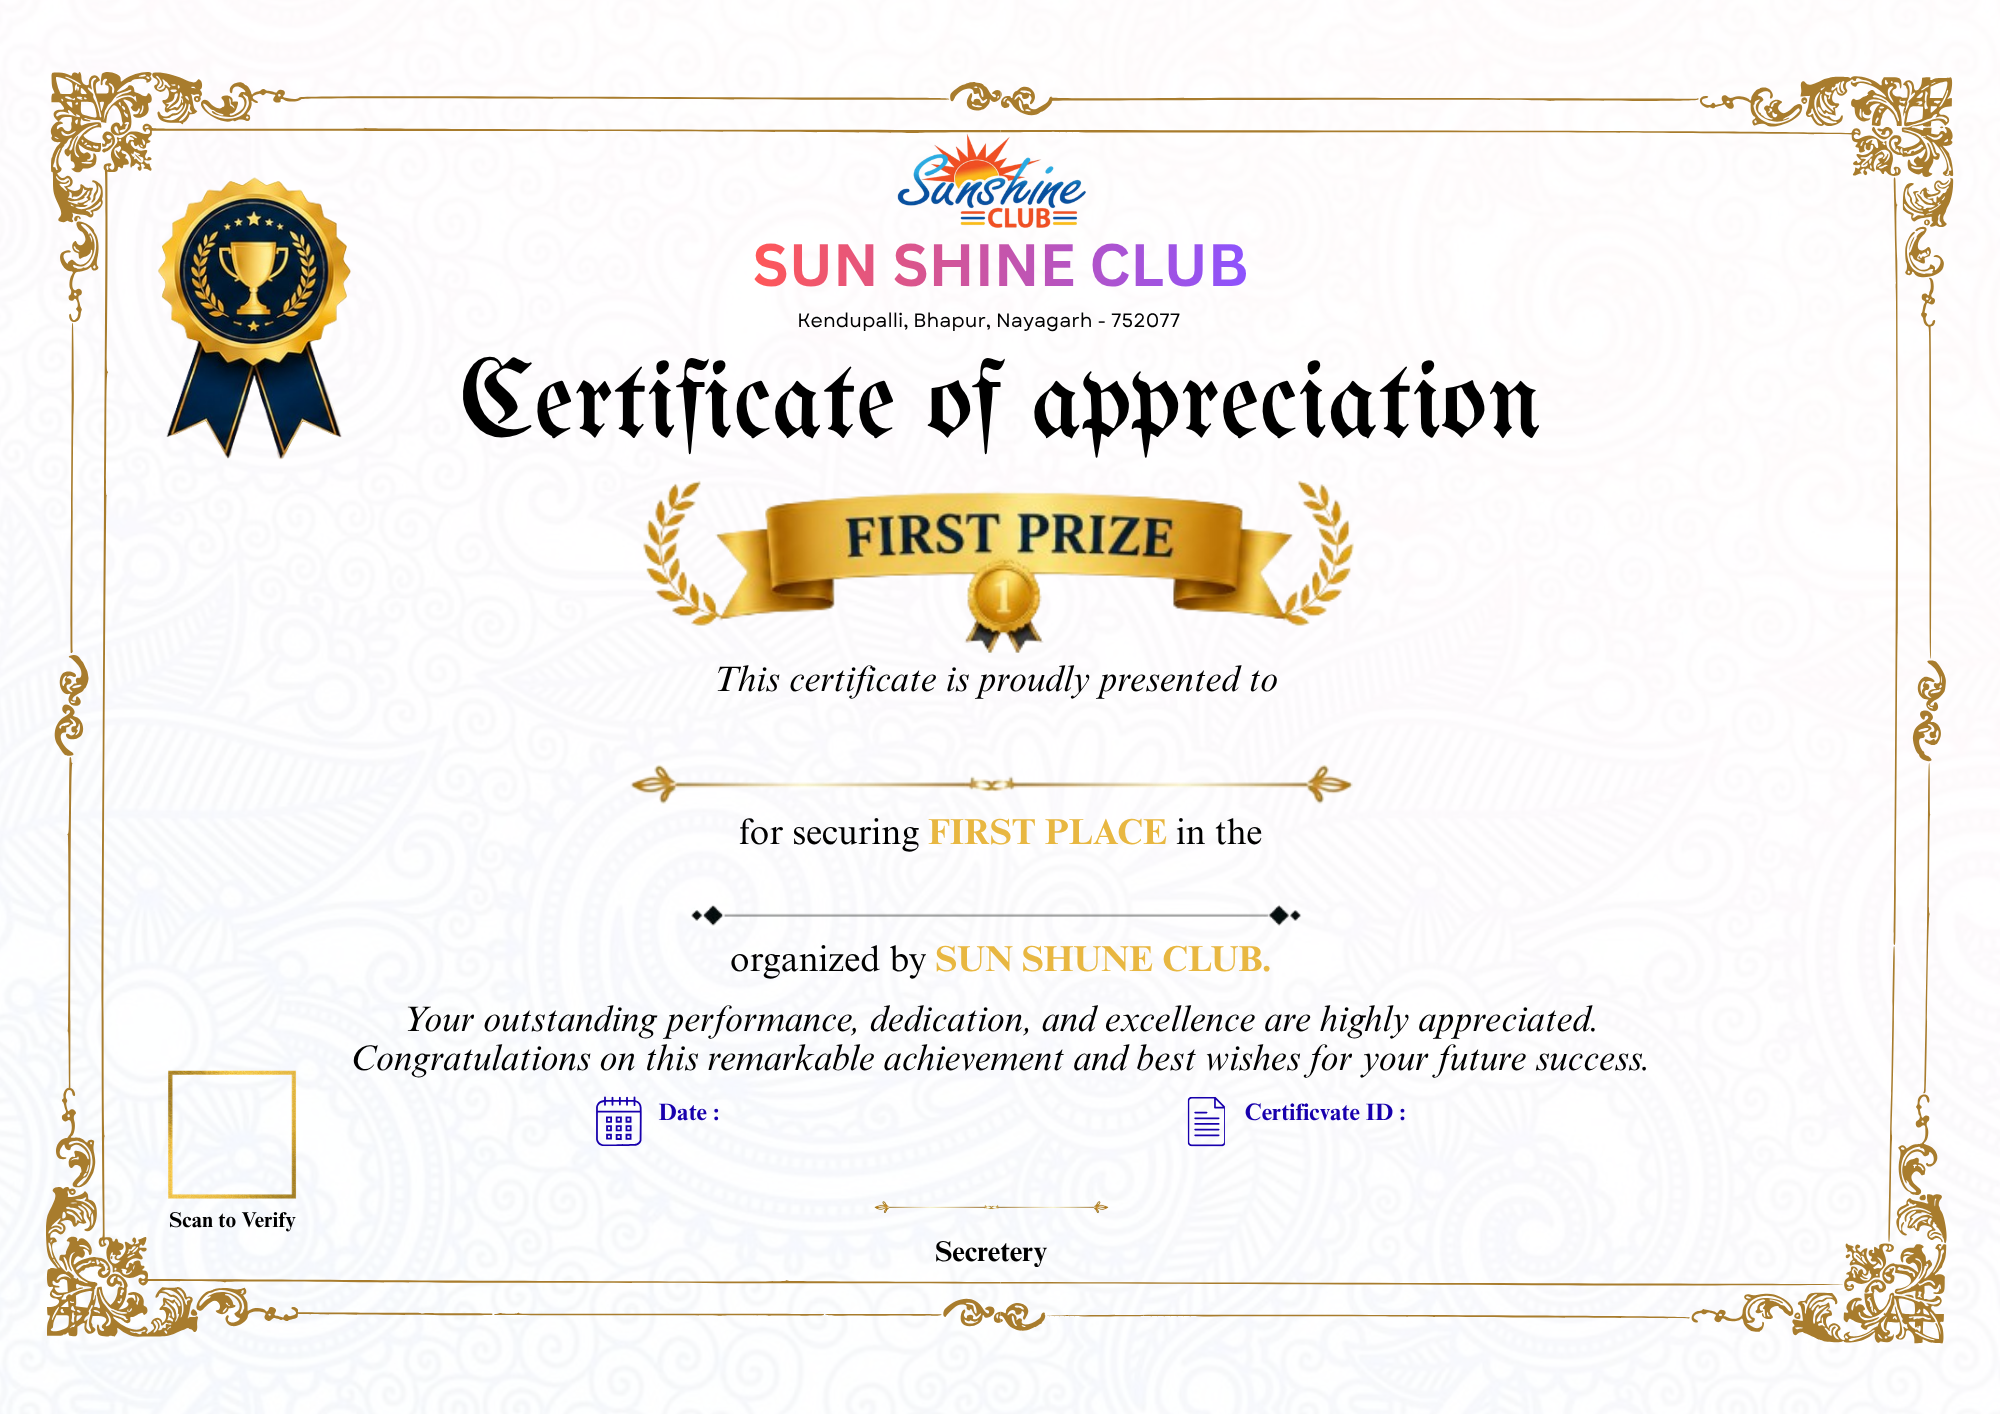
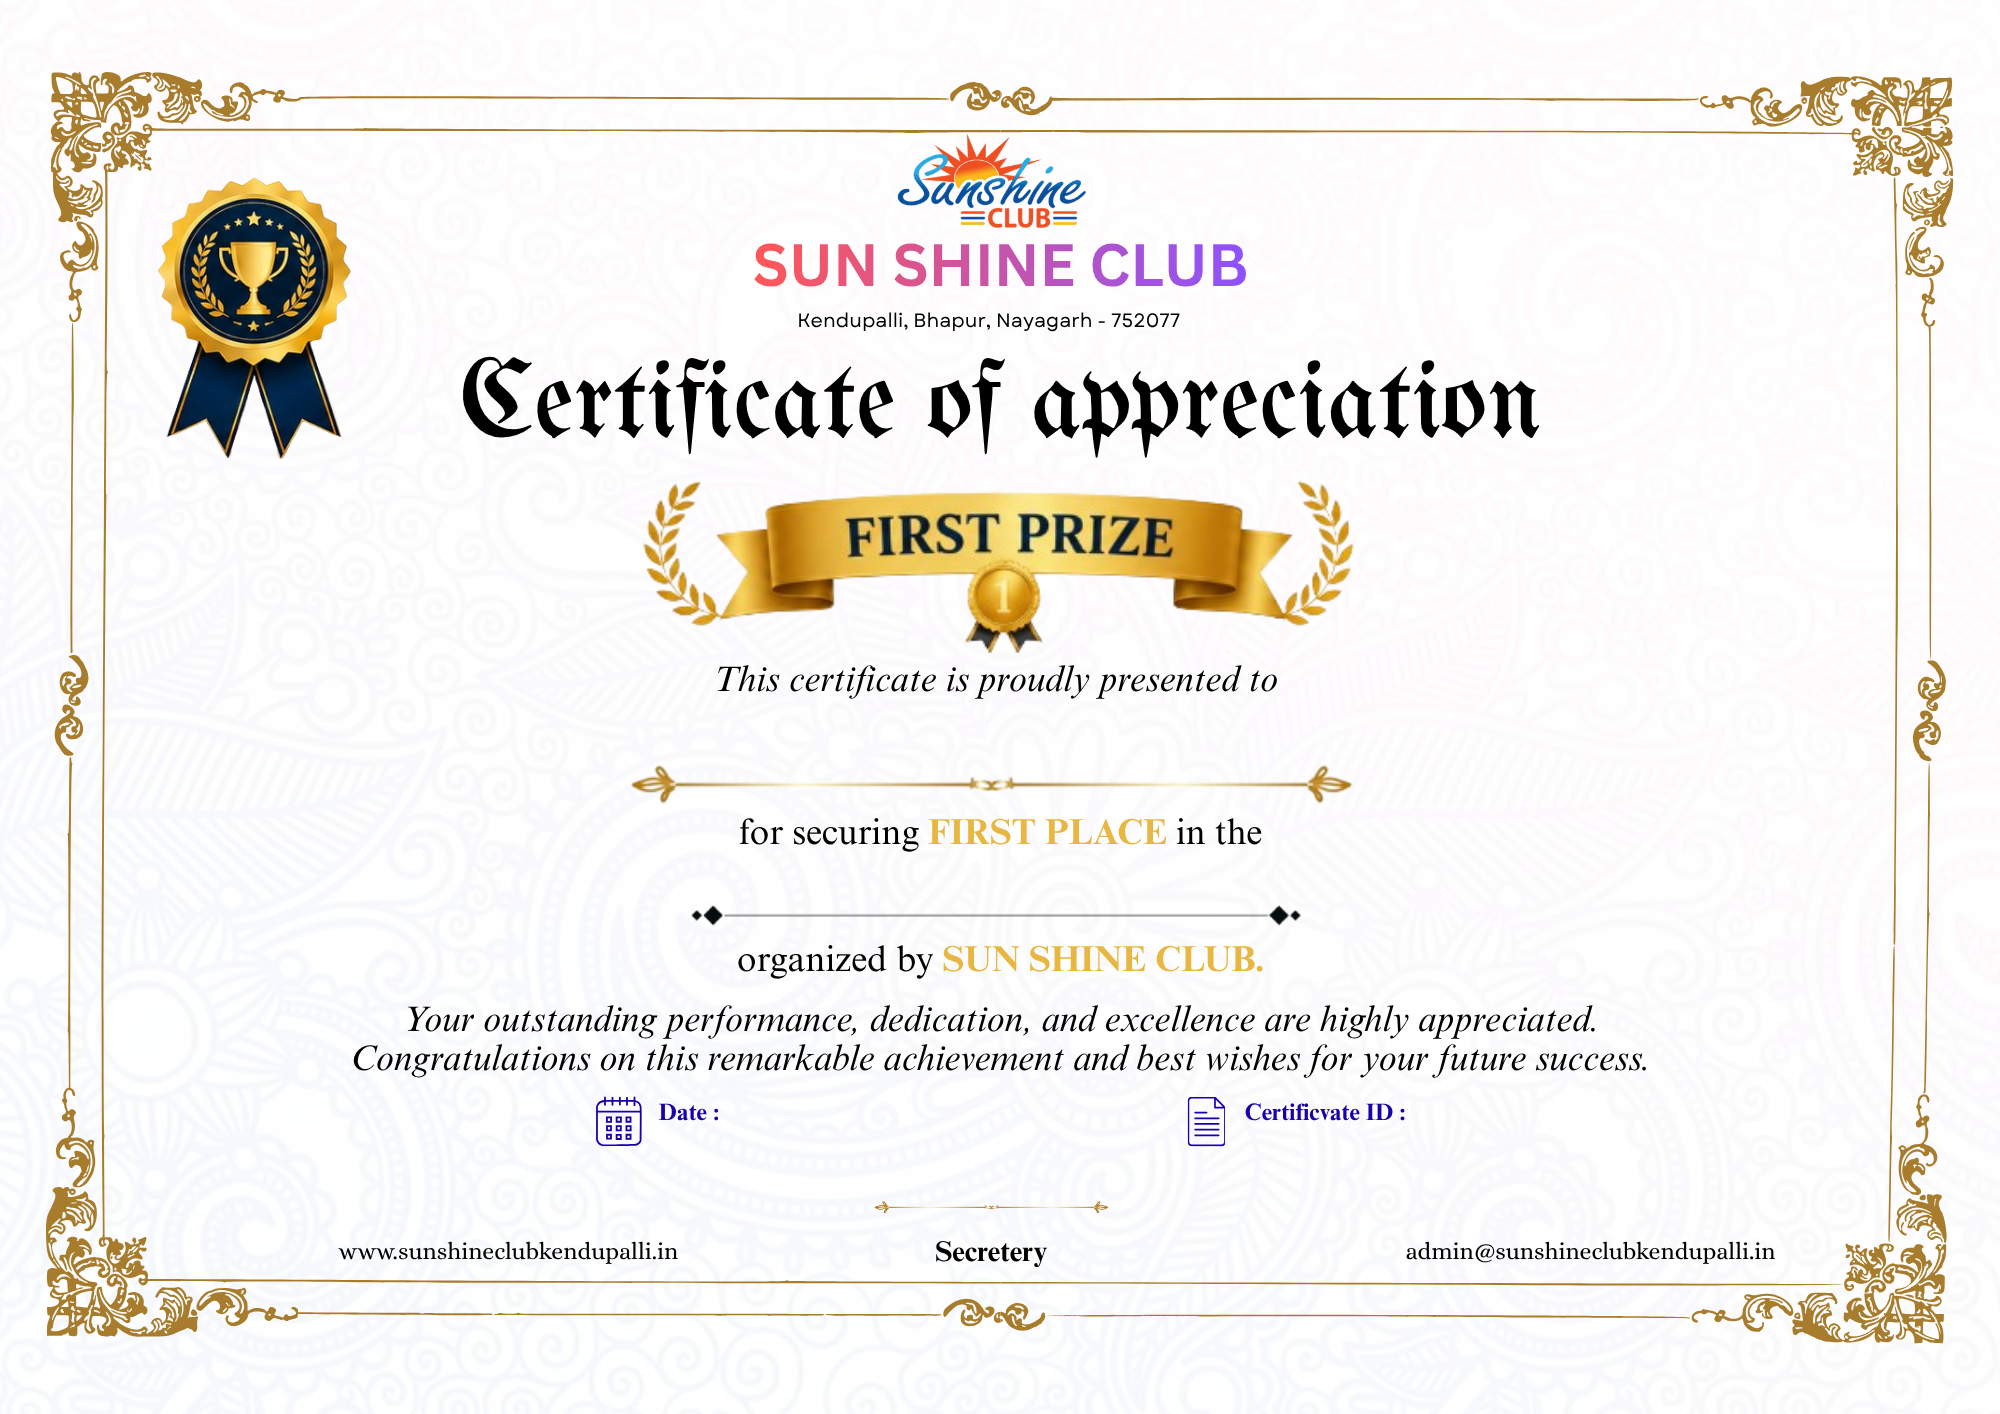
Add QR code generation for certificate verification

diff --git a/club-certificate/generator.html b/club-certificate/generator.html
@@ -19,6 +19,8 @@
 
     <!-- html2canvas -->
     <script src="https://cdnjs.cloudflare.com/ajax/libs/html2canvas/1.4.1/html2canvas.min.js"></script>
+    <!-- QR Code generator -->
+    <script src="https://cdnjs.cloudflare.com/ajax/libs/qrcodejs/1.0.0/qrcode.min.js"></script>
 
     <style>
 
@@ -767,6 +769,107 @@
 
 
         /* =========================================
+           QR CODE - SCAN TO VERIFY
+        ========================================= */
+
+        .certificate-qr {
+            position: absolute;
+
+            left: 7.2%;
+            bottom: 13.2%;
+
+            width: 7.2%;
+
+            display: flex;
+            flex-direction: column;
+            align-items: center;
+            justify-content: center;
+
+            z-index: 20;
+
+            pointer-events: none;
+        }
+
+        #qrCode {
+            width: 100%;
+            aspect-ratio: 1 / 1;
+
+            display: flex;
+            align-items: center;
+            justify-content: center;
+
+            background: #ffffff;
+
+            padding: 4px;
+
+            border: 1px solid #d4af37;
+
+            box-sizing: border-box;
+        }
+
+        #qrCode canvas,
+        #qrCode img {
+            display: block;
+
+            width: 100% !important;
+            height: 100% !important;
+
+            max-width: 100%;
+            max-height: 100%;
+        }
+
+        .qr-label {
+            margin-top: 3px;
+
+            font-family: Arial, sans-serif;
+
+            font-size: clamp(
+                5px,
+                0.55vw,
+                9px
+            );
+
+            line-height: 1.1;
+
+            font-weight: 800;
+
+            color: #102a56;
+
+            text-align: center;
+
+            white-space: nowrap;
+
+            text-transform: uppercase;
+        }
+
+        .qr-id {
+            margin-top: 2px;
+
+            font-family: Arial, sans-serif;
+
+            font-size: clamp(
+                4px,
+                0.45vw,
+                7px
+            );
+
+            line-height: 1.1;
+
+            color: #475569;
+
+            text-align: center;
+
+            white-space: nowrap;
+
+            max-width: 100%;
+
+            overflow: hidden;
+
+            text-overflow: ellipsis;
+        }
+
+
+        /* =========================================
            COVER PLACEHOLDER TEXT FROM IMAGE
            
            These areas cover the placeholder
@@ -1267,6 +1370,26 @@
                 </div>
 
 
+                <!-- QR CODE - UNIQUE VERIFICATION URL -->
+
+                <div class="certificate-qr">
+
+                    <div id="qrCode"></div>
+
+                    <div class="qr-label">
+                        Scan to Verify
+                    </div>
+
+                    <div
+                        id="qrId"
+                        class="qr-id"
+                    >
+                        CERTIFICATE ID
+                    </div>
+
+                </div>
+
+
                 <div
                     id="previewId"
                     class="certificate-id"
@@ -1299,6 +1422,16 @@ const params =
 
 let template =
     params.get("template") || "first";
+
+
+/* =========================================
+   OFFICIAL CERTIFICATE VERIFICATION URL
+   Every QR code points to this page with
+   the certificate ID as the query parameter.
+========================================= */
+
+const VERIFY_URL =
+    "https://sunshineclubkendupalli.in/club-certificate/verify.html";
 
 
 /* =========================================
@@ -1391,6 +1524,16 @@ const previewId =
         "previewId"
     );
 
+const qrCode =
+    document.getElementById(
+        "qrCode"
+    );
+
+const qrId =
+    document.getElementById(
+        "qrId"
+    );
+
 
 const background =
     document.getElementById(
@@ -1468,6 +1611,67 @@ function formatDate(dateValue) {
    LIVE PREVIEW
 ========================================= */
 
+/* =========================================
+   GENERATE UNIQUE VERIFICATION QR
+========================================= */
+
+function generateQRCode() {
+
+    if (!qrCode) {
+        return;
+    }
+
+    const id =
+        certificateId.value
+            .trim()
+            .toUpperCase();
+
+    // Always clear the previous QR first.
+    qrCode.innerHTML = "";
+
+    if (qrId) {
+        qrId.textContent =
+            id || "CERTIFICATE ID";
+    }
+
+    // Do not create a QR for an empty ID.
+    if (!id) {
+        return;
+    }
+
+    if (typeof QRCode === "undefined") {
+        console.error(
+            "QRCode library was not loaded."
+        );
+
+        return;
+    }
+
+    const verificationURL =
+        `${VERIFY_URL}?id=${encodeURIComponent(id)}`;
+
+    new QRCode(
+        qrCode,
+        {
+            text: verificationURL,
+
+            width: 300,
+            height: 300,
+
+            colorDark: "#000000",
+            colorLight: "#ffffff",
+
+            correctLevel:
+                QRCode.CorrectLevel.H
+        }
+    );
+}
+
+
+/* =========================================
+   UPDATE LIVE PREVIEW
+========================================= */
+
 function updatePreview() {
 
     previewName.textContent =
@@ -1486,9 +1690,17 @@ function updatePreview() {
         );
 
 
+    const normalizedId =
+        certificateId.value
+            .trim()
+            .toUpperCase();
+
     previewId.textContent =
-        certificateId.value.trim()
+        normalizedId
         || "CERTIFICATE ID";
+
+    // Keep the QR synchronized with the ID.
+    generateQRCode();
 
 }
 
@@ -1534,7 +1746,13 @@ function generateCertificate() {
         eventDate.value;
 
     const id =
-        certificateId.value.trim();
+        certificateId.value
+            .trim()
+            .toUpperCase();
+
+    // Keep the input normalized so the ID on the
+    // certificate and inside the QR are identical.
+    certificateId.value = id;
 
 
     if (!name) {
